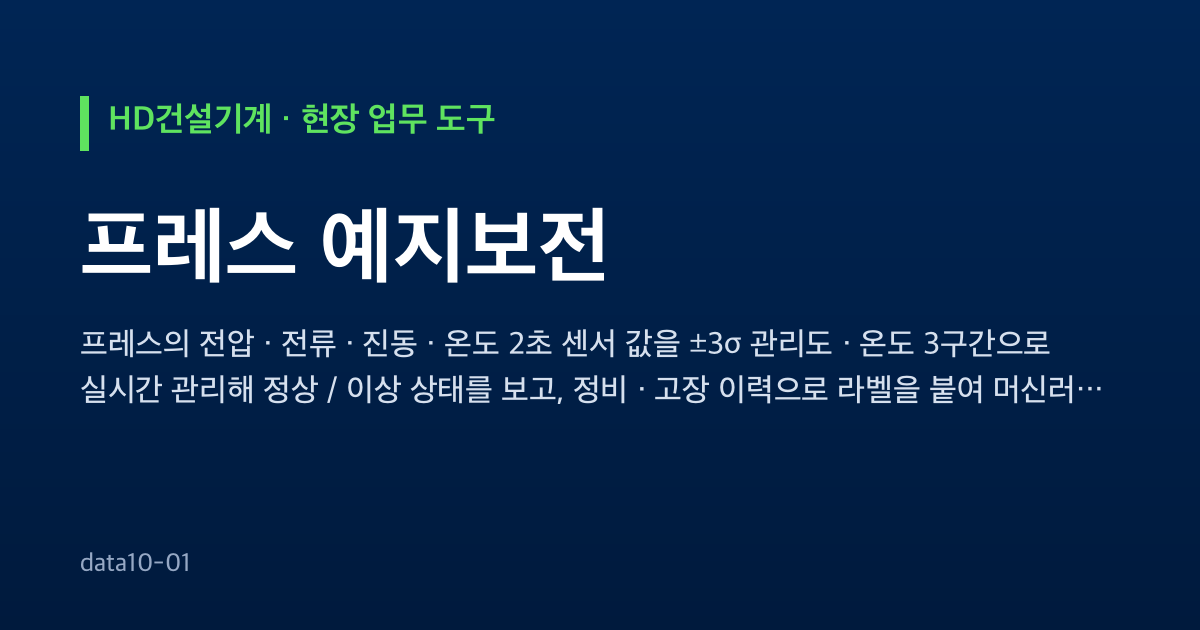
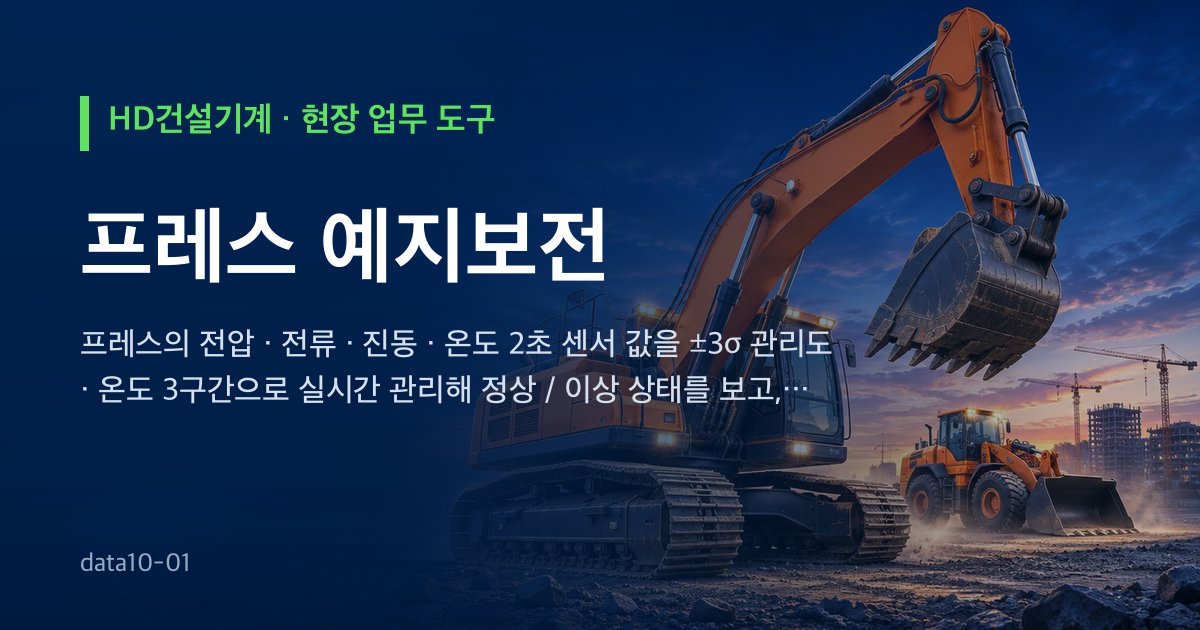
개발 자료 전체 공개 — 개발일지 · 기획서 원문 · 시험 · SQL · 스크립트 · README (수강생 내려받기용)

diff --git a/index.html b/index.html
@@ -12,21 +12,28 @@
   <meta property="og:description" content="프레스의 전압 · 전류 · 진동 · 온도 2초 센서 값을 ±3σ 관리도 · 온도 3구간으로 실시간 관리해 정상 / 이상 상태를 보고, 정비 · 고장 이력으로 라벨을 붙여 머신러닝 학습용 데이터셋을 만드는 예지보전 도구입니다.">
   <meta property="og:url" content="https://data10-01.jobability.co.kr/">
   <meta property="og:image" content="https://data10-01.jobability.co.kr/og-image.png">
+  <meta property="og:image:secure_url" content="https://data10-01.jobability.co.kr/og-image.png">
+  <meta property="og:image:type" content="image/png">
   <meta property="og:image:width" content="1200">
   <meta property="og:image:height" content="630">
+  <meta property="og:image:alt" content="HD건설기계 · 프레스 예지보전">
+  <meta property="og:locale" content="ko_KR">
   <meta name="twitter:card" content="summary_large_image">
+  <meta name="twitter:title" content="HD건설기계 · 프레스 예지보전">
+  <meta name="twitter:description" content="프레스의 전압 · 전류 · 진동 · 온도 2초 센서 값을 ±3σ 관리도 · 온도 3구간으로 실시간 관리해 정상 / 이상 상태를 보고, 정비 · 고장 이력으로 라벨을 붙여 머신러닝 학습용 데이터셋을 만드는 예지보전 도구입니다.">
+  <meta name="twitter:image" content="https://data10-01.jobability.co.kr/og-image.png">
   <link rel="icon" href="favicon.svg" type="image/svg+xml">
   <!-- /seo-kit -->
   <meta name="description" content="프레스의 전압·전류·진동·온도 2초 센서 로그로 실시간 ±3σ 관리도·온도 3구간 관리선, 설비 실시간 연결(시뮬레이터·HTTP·WebSocket), 고장 전 이탈 리드타임, 통계 기준 이상 감지, 정비·고장 이력으로 정상/이상 라벨링과 학습용 데이터셋을 만드는 브라우저 도구">
   <meta name="robots" content="noindex">
   <!-- 모든 css·js 에 판 질의(?v=)를 붙여, 배포 뒤 옛 파일과 새 파일이 섞여 돌지 않게 합니다(판을 올릴 때 한꺼번에 바꿈) -->
-  <link rel="stylesheet" href="css/style.css?v=2026-11-11.7">
+  <link rel="stylesheet" href="css/style.css?v=2026-11-11.8">
   <!-- auth-kit: 로그인 전에는 도구 화면을 감춘다(js/auth.js 가 판정 뒤 푼다) -->
   <script>document.documentElement.classList.add('auth-lock')</script>
-  <link rel="stylesheet" href="css/auth.css?v=2026-11-11.7">
-  <link rel="stylesheet" href="css/board.css?v=2026-11-11.7">
+  <link rel="stylesheet" href="css/auth.css?v=2026-11-11.8">
+  <link rel="stylesheet" href="css/board.css?v=2026-11-11.8">
   <!-- /auth-kit -->
-  <link rel="stylesheet" href="css/theme-hd.css?v=2026-11-11.7">
+  <link rel="stylesheet" href="css/theme-hd.css?v=2026-11-11.8">
   <!-- fresh-guard v3 (2026-10-21) — 배포 직후에도 강력 새로고침 없이 새 화면을 보이게 한다.
        GitHub Pages 는 HTML 을 max-age=600 으로 준다. 브라우저도, GitHub 앞단 캐시(Fastly)도 그동안 옛 HTML 을 줄 수 있다
        (Cloudflare 는 HTML 을 캐시하지 않는다 — cf-cache-status: DYNAMIC 실측).
@@ -68,25 +75,25 @@
   <div id="toast" class="toast" role="status" aria-live="polite" hidden></div>
 
   <!-- 로컬 파일(file://)로 열어도 돌도록 module 이 아닌 일반 스크립트로 불러옵니다 -->
-  <script src="vendor/xlsx.full.min.js?v=2026-11-11.7"></script>
-  <script src="js/logic.js?v=2026-11-11.7"></script>
-  <script src="js/spc.js?v=2026-11-11.7"></script>
-  <script src="js/pdm.js?v=2026-11-11.7"></script>
-  <script src="js/sample-data.js?v=2026-11-11.7"></script>
-  <script src="js/virtual-data.js?v=2026-11-11.7"></script>
-  <script src="js/label.js?v=2026-11-11.7"></script>
-  <script src="js/live.js?v=2026-11-11.7"></script>
-  <script src="js/store.js?v=2026-11-11.7"></script>
-  <script src="js/rawstore.js?v=2026-11-11.7"></script>
-  <script src="js/charts.js?v=2026-11-11.7"></script>
-  <script src="js/ai-endpoint.js?v=2026-11-11.7"></script>
-  <script src="js/ai-panel.js?v=2026-11-11.7"></script>
-  <script src="js/app.js?v=2026-11-11.7"></script>
+  <script src="vendor/xlsx.full.min.js?v=2026-11-11.8"></script>
+  <script src="js/logic.js?v=2026-11-11.8"></script>
+  <script src="js/spc.js?v=2026-11-11.8"></script>
+  <script src="js/pdm.js?v=2026-11-11.8"></script>
+  <script src="js/sample-data.js?v=2026-11-11.8"></script>
+  <script src="js/virtual-data.js?v=2026-11-11.8"></script>
+  <script src="js/label.js?v=2026-11-11.8"></script>
+  <script src="js/live.js?v=2026-11-11.8"></script>
+  <script src="js/store.js?v=2026-11-11.8"></script>
+  <script src="js/rawstore.js?v=2026-11-11.8"></script>
+  <script src="js/charts.js?v=2026-11-11.8"></script>
+  <script src="js/ai-endpoint.js?v=2026-11-11.8"></script>
+  <script src="js/ai-panel.js?v=2026-11-11.8"></script>
+  <script src="js/app.js?v=2026-11-11.8"></script>
   <!-- auth-kit: 로그인 · 사용 신청 · 승인(정본 data10-00/kit/auth) -->
-  <script src="vendor/supabase.js?v=2026-11-11.7"></script>
-  <script src="js/auth-config.js?v=2026-11-11.7"></script>
-  <script src="js/board.js?v=2026-11-11.7"></script>
-  <script src="js/auth.js?v=2026-11-11.7"></script>
+  <script src="vendor/supabase.js?v=2026-11-11.8"></script>
+  <script src="js/auth-config.js?v=2026-11-11.8"></script>
+  <script src="js/board.js?v=2026-11-11.8"></script>
+  <script src="js/auth.js?v=2026-11-11.8"></script>
   <!-- /auth-kit -->
 </body>
 </html>

diff --git a/js/auth.js b/js/auth.js
@@ -233,6 +233,12 @@
       box.classList.toggle('hp-sl-light', !!(sl[i] && sl[i].tone === 'light'));   // 밝은 사진이면 글자를 어둡게
     }
     go(0);
+    // slides[].anim(움직이는 그림 gif) — 먼저 가벼운 사진을 보이고, 화면이 뜬 뒤 받아서 바꿔 끼운다(데이터 절약 · 모션 최소화면 건너뜀)
+    var conn = navigator.connection || {};
+    if (!reduce && !conn.saveData) sl.forEach(function (x, k) {
+      if (!x.anim || !track.children[k]) return;
+      setTimeout(function () { var im = new Image(); im.onload = function () { if (document.body.contains(track)) track.children[k].style.backgroundImage = 'url("' + absUrl(x.anim) + '")'; }; im.src = absUrl(x.anim); }, 1500);
+    });
     box.querySelectorAll('[data-sl]').forEach(function (b) {
       b.onclick = function () {
         var v = b.getAttribute('data-sl');

diff --git a/docs/평가보고서/data10-01_평가보고서_2026-11-11.md b/docs/평가보고서/data10-01_평가보고서_2026-11-11.md
@@ -2,7 +2,7 @@
 
 - 과제: 프레스 예지보전
 - 요청자: 조병철
-- 점검일: 2026-11-11 (라이브 점검 판 2026-11-11.6, 이 보고서와 함께 올리는 판 2026-11-11.7)
+- 점검일: 2026-11-11 (라이브 점검 판 2026-11-11.6, 이 보고서와 함께 올리는 판 2026-11-11.8)
 - 사이트: https://data10-01.jobability.co.kr/
 - 리포지토리: https://github.com/jungaistar/data10-01
 
@@ -34,7 +34,7 @@
 | 첫 화면 구성 | 충족 | 모양 사진 슬라이드 3장 · 기능 6 · 사용 순서 6 · 실제 화면 있음 |
 | 회사 로고(그림) | 충족 | 머리글 로고 그림 |
 | 기획서 페이지 · 실제 화면 그림 | 충족 | plan.html 200 · screen.png 200 |
-| 공유 미리보기 메타 · 아이콘 | 조치함 | 점검 때 og 메타 · 아이콘이 없어 판 2026-11-11.7 에서 넣음 |
+| 공유 미리보기 메타 · 아이콘 | 조치함 | 점검 때 og 메타 · 아이콘이 없어 넣음 — og:title · description · url · image(1200×630, 첫 화면 사진 바탕) · canonical |
 
 ## 3. 기능과 시험
 
@@ -65,7 +65,7 @@
 | Supabase 설정 파일 | 충족 | auth.sql · board.sql · site.sql · verify.sql |
 | Supabase 연결 안내 | 충족 | supabase/README.md (11단계 · 기대하는 값 · 자주 나는 문제) |
 | 내 깃허브로 옮기기 안내 | 충족 | docs/내_깃허브로_옮기기.md |
-| 기획서(워드) · 개발일지 · 변경 이력 | 충족 | 변경 이력 11건 · 커밋 19개 |
+| 기획서(워드) · 개발일지 · 변경 이력 | 충족 | 변경 이력 12건 · 커밋 20개 |
 | 공개 리포지토리(ZIP 내려받기) | 충족 | github.com/jungaistar/data10-01 |
 | 게시판 · 새 글 알림 · 첫 화면 고르기 | 충족 | 과정용 프로젝트에 SQL 적용 완료(표 · 정책 수 확인) |
 
@@ -76,13 +76,14 @@
 | 항목 | 결과 | 근거 |
 |---|---|---|
 | 내 깃허브에 배포 | 충족 | https://jbc6265.github.io/data10-01/ |
-| 최신 판으로 배포 | 미충족 | 배포된 판 2026-11-11.4 (최종 2026-11-11.7) |
+| 최신 판으로 배포 | 미충족 | 배포된 판 2026-11-11.4 (최종 2026-11-11.8) |
 | 게시판 포함 판 | 충족 | 게시판 파일 있음 |
 | 내 Supabase 로 연결 | 미충족 | 아직 과정용 프로젝트 주소 그대로 |
 | 비밀 키 노출 없음 | 충족 | 설정 파일에 service_role · secret 키 없음 |
 
 ## 6. 변경 이력
 
+- 2026-11-11 점검 · 평가보고서 (판 2026-11-11.7)
 - 2026-11-11 요청 반영 (판 2026-11-11.6)
 - 2026-11-11 슬라이드 사진 (판 2026-11-11.5)
 - 2026-11-11 첫 화면 모양 고르기 (판 2026-11-11.3)

diff --git a/CHANGELOG.md b/CHANGELOG.md
@@ -2,6 +2,11 @@
 
 버전마다 기획서 워드 판을 `docs/기획서/` 에 남긴다(옛 판을 지우지 않는다).
 
+## 2026-11-11 최종 (판 2026-11-11.8)
+
+- 공유 미리보기 그림(og-image.png)을 첫 화면 사진 바탕으로, og · twitter 메타 보강
+- 평가보고서 갱신 `docs/평가보고서/`
+
 ## 2026-11-11 점검 · 평가보고서 (판 2026-11-11.7)
 
 - 16개 사이트 점검 결과와 평가보고서 `docs/평가보고서/`(md · docx)
